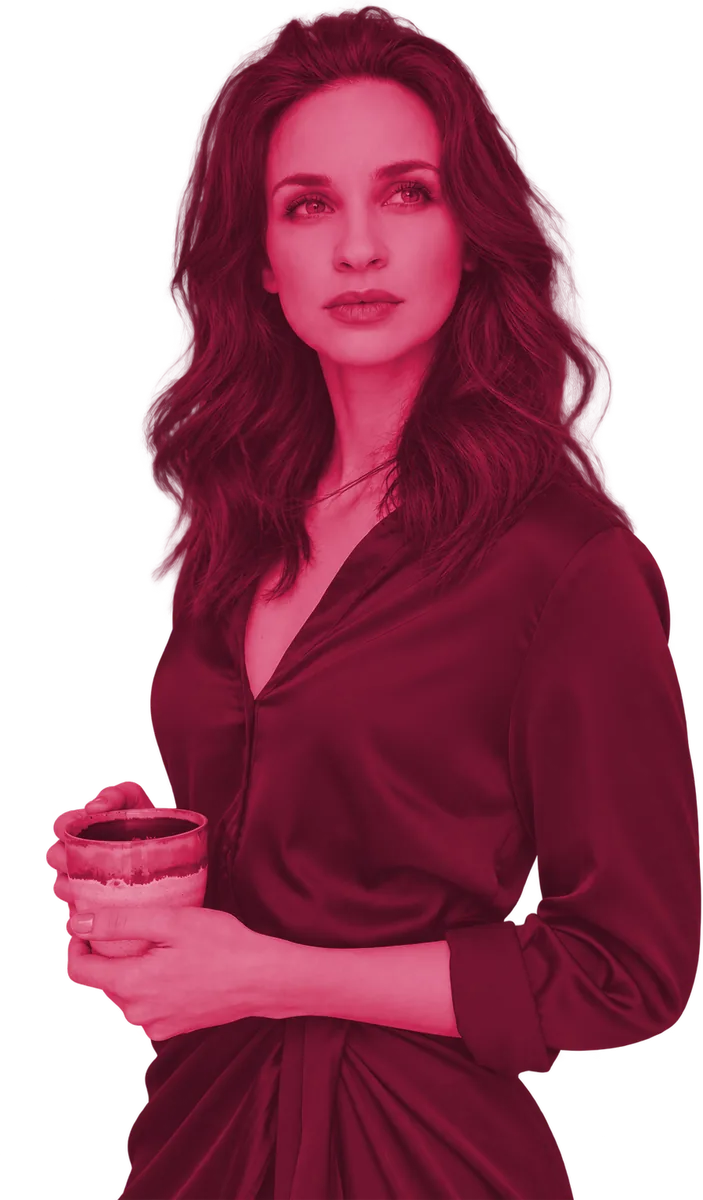
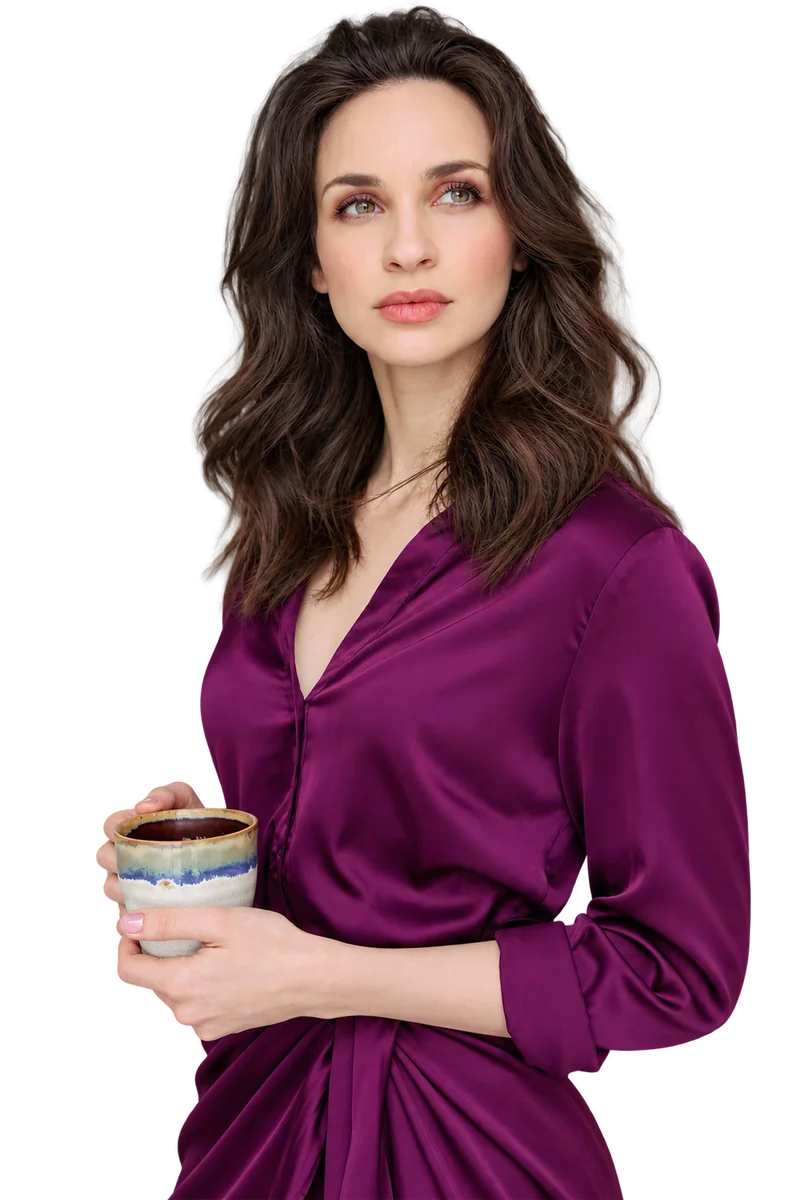
Portré eredeti színekben a fátyol fölött, támogatói mondat a CinemaCenterrel

diff --git a/src/sections/Hero.tsx b/src/sections/Hero.tsx
@@ -5,13 +5,14 @@ import { reveal } from "../lib/reveal";
 import { Countdown } from "./Countdown";
 import styles from "./Hero.module.css";
 
-/* Rétegek: éjszakai gradiens (tartalék) → fesztiválfotó (karmazsin duotón) →
-   vendégportré ugyanabban a duotónban → fátyol a borszínű alapba → tartalom. */
+/* Rétegek: éjszakai gradiens (tartalék) → fesztiválfotó (karmazsin duotón) → fátyol a
+   borszínű alapba → vendégportré eredeti színekben, a fátyol fölött, szűrő nélkül → tartalom. */
 export function Hero() {
   return (
     <section id="top" className={styles.hero}>
       <div className={styles.night} aria-hidden="true" />
       <div className={styles.photo} aria-hidden="true" />
+      <div className={styles.veil} aria-hidden="true" />
       <img
         className={styles.portrait}
         src={asset("/assets/portraits/torocsik.webp")}
@@ -20,7 +21,6 @@ export function Hero() {
         height={1200}
         fetchPriority="high"
       />
-      <div className={styles.veil} aria-hidden="true" />
 
       <div className={styles.content}>
         <p className={`reveal ${styles.eyebrow}`} style={reveal(0)}>

diff --git a/src/sections/Hero.module.css b/src/sections/Hero.module.css
@@ -21,7 +21,7 @@
   background-repeat: no-repeat;
 }
 
-/* A vendégportré a fotó duotónjában, jobbra lent, a szélénél elmosva.
+/* A vendégportré eredeti színekben (a megrendelő kérésére szűrő nélkül), jobbra lent, a szélénél elmosva.
    Keskeny képernyőn kisebb és halványabb, hogy a szöveg alatt ne zavarjon. */
 .portrait {
   position: absolute;

diff --git a/README.md b/README.md
@@ -49,7 +49,7 @@ Ha később CMS lesz, a `src/config.ts` az egyetlen hely, amit cserélni kell.
 index.html                 head: meta, OG, fontok
 public/assets/hero-bg.jpg  a hero fotója (karmazsin duotón), assets-src/photos-ból kicsinyítve
 public/assets/og-image.jpg 1200×630 megosztókép a hero fotóból vágva
-public/assets/portraits/   vendégportrék a fotó duotónjában (scripts/duotone.py állítja elő)
+public/assets/portraits/   vendégportrék (kivágott PNG-ből kicsinyítve, szűrő nélkül)
 public/assets/townscape.png  a story-kártya illusztrációja
 public/assets/logos/       partnerlogók krémre színezve (scripts/tint-logo.py állítja elő)
 assets-src/logos/          a partnerlogók eredeti fájljai (nem kerülnek a buildbe)
@@ -87,10 +87,10 @@ Ha a kezdés az előző programtól függ, add meg a `timeLabel` mezőt („a ve
 meg az idő helyett, és a program kimarad a naptárexportból és a JSON-LD-ből, mert a `time`
 ott csak becslés a rendezéshez.
 
-Egy új vendégportré (kivágott, átlátszó hátterű PNG) így kerül a fotók duotónjába:
+Egy új vendégportré (kivágott, átlátszó hátterű PNG) így kerül be, eredeti színekben:
 
 ```bash
-python scripts/duotone.py assets-src/photos/nev.png public/assets/portraits/nev.webp --height 1200
+python scripts/duotone.py assets-src/photos/nev.png public/assets/portraits/nev.webp --height 1200 --no-tint
 ```
 
 A lábléc partnerei (főszervező, támogató) a `festival.partners` tömbben vannak. A logó a

diff --git a/CLAUDE.md b/CLAUDE.md
@@ -24,8 +24,9 @@ visual rules.
 - Colours only from tokens: wine, gold, cream, rose, plus the crimson trio for photo surfaces
   only (hero background, portraits). Never introduce another hue or a grey.
   Gold is rationed (numbers, eyebrows, one primary button per region, hairlines).
-- Photos are duotoned into the crimson palette with `scripts/duotone.py`; the client supplies
-  cut-out portraits (this overrides the handoff's silhouette rule).
+- The hero photo is a crimson duotone; guest portraits are cut-out photos in original colour,
+  no filter, at the client's request (this overrides the handoff's silhouette rule).
+  `scripts/duotone.py` resizes (and can tint) them.
 - Sizes are fluid `clamp()`; no media queries, grids are `repeat(auto-fit, minmax(...))`.
 - Keep the `prefers-reduced-motion` block in `global.css`. Only two keyframes: `fpReveal`, `fpGlow`.
 - Programme data lives in `src/data/programme.json` and `venues.json`, not in components.
